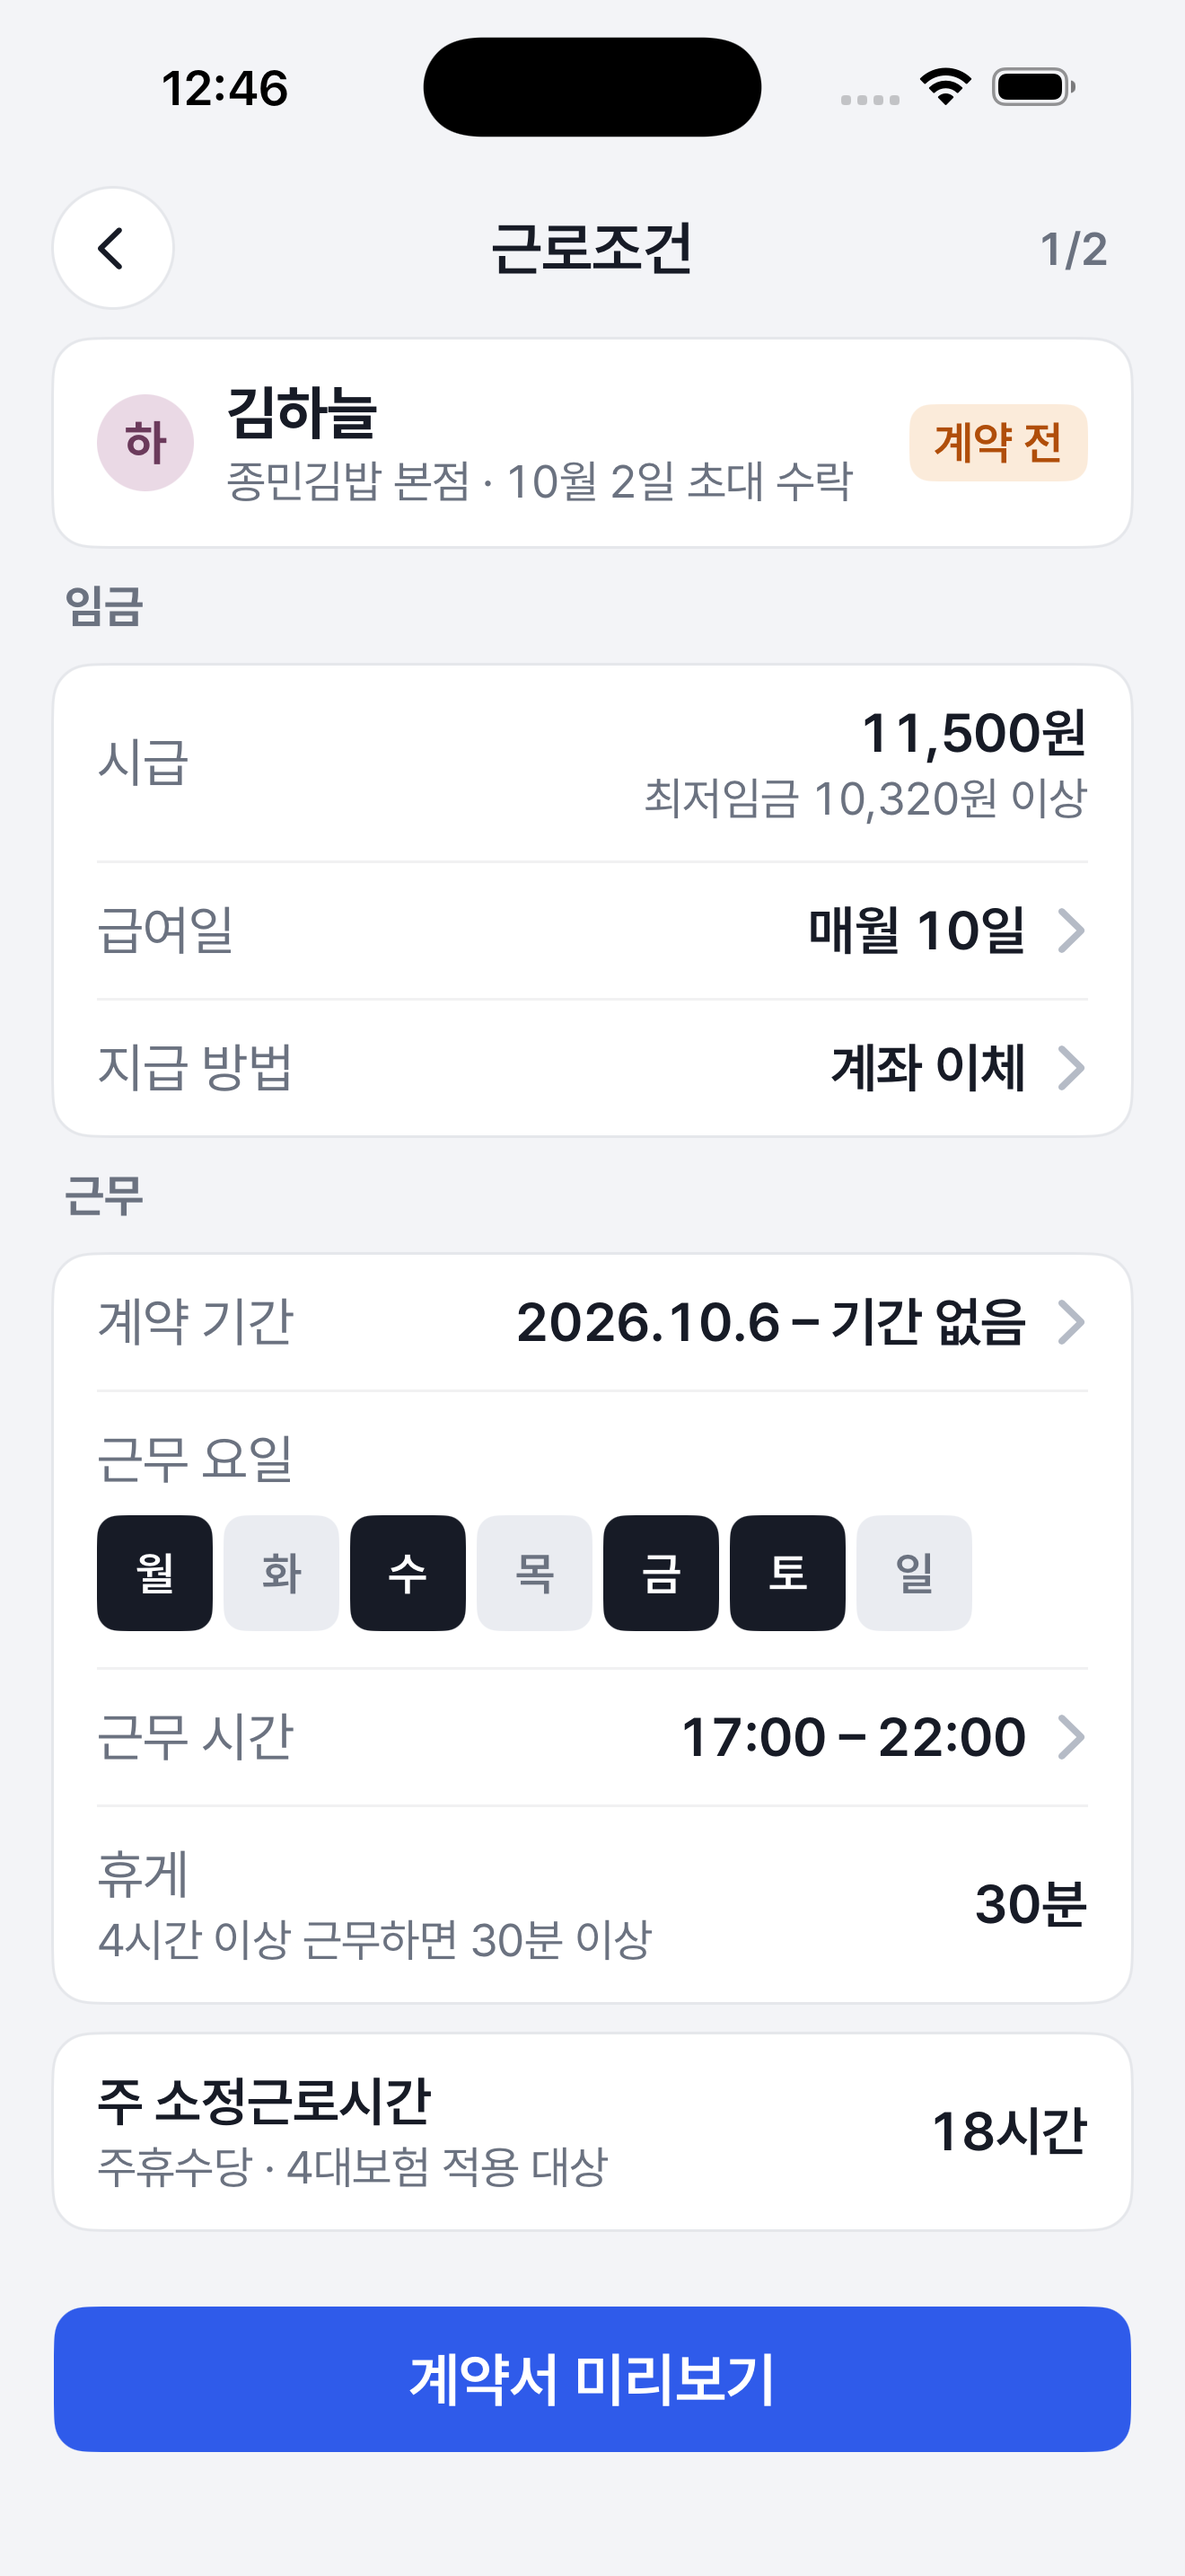
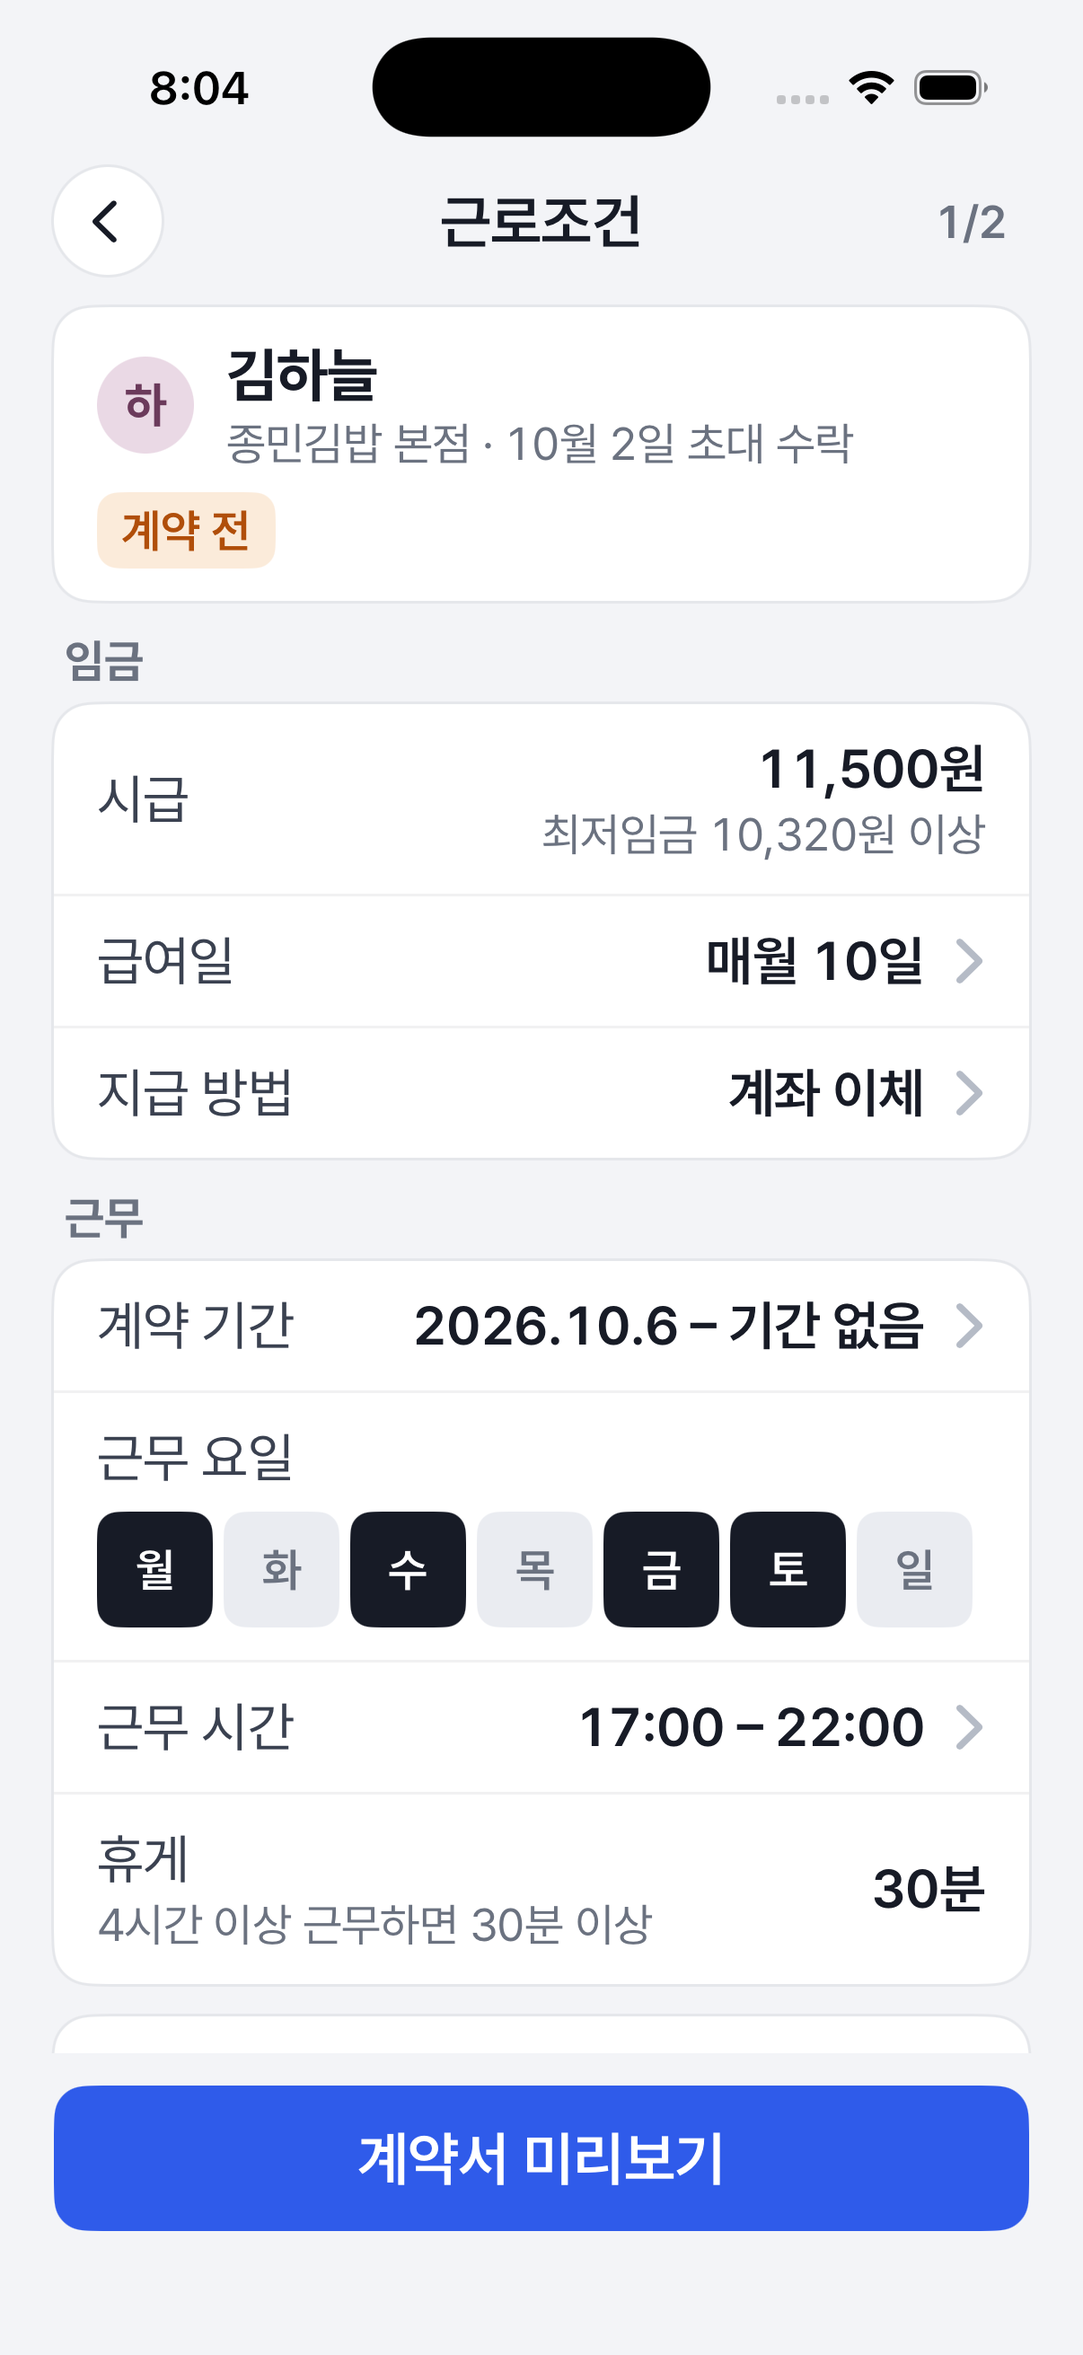
fix(employee): 근로조건(10a) 줄 높이 · 구분선 · 글자색을 원문 값대로 (#449)
- 요일 칩 누름 영역 44가 줄을 68pt로 키우던 것 → 음수 여백으로 줄 높이는 칩 30 기준(원문 52)
- 행 구분선을 카드 끝까지(원문 border-bottom), 키 글자색 gray800(#3A4150)
- 구역 제목–카드 6, 직원 카드 위아래 12, 필수 항목 체크 원 20 · 간격 10

UI-IOS-10a · REQ-008

diff --git a/Pum/Pum/Features/Employee/WorkTermsInput/WorkTermsInputView.swift b/Pum/Pum/Features/Employee/WorkTermsInput/WorkTermsInputView.swift
@@ -22,8 +22,8 @@ struct WorkTermsInputView: View {
     // 화면 전용 상수 (DEC-005)
     /// 요일 칩 한 변 — 원문 30(2e · 8d와 같은 값)
     @ScaledMetric(relativeTo: .caption) private var chipSize = PumTimePickerStyle.weekdayChip
-    /// 필수 항목 줄 체크 원 지름 — 원문 약 24
-    @ScaledMetric(relativeTo: .footnote) private var checkSize: CGFloat = 24
+    /// 필수 항목 줄 체크 원 지름 — 원문 20
+    @ScaledMetric(relativeTo: .footnote) private var checkSize: CGFloat = 20
 
     init(state: WorkTermsInputState = .sample,
          onBack: @escaping () -> Void = {},
@@ -61,10 +61,8 @@ struct WorkTermsInputView: View {
             ScrollView {
                 VStack(spacing: PumTokens.Space.s12) {
                     employeeCard
-                    PumSectionHeader(title: WorkTermsInputState.wageHeading)
-                    wageCard
-                    PumSectionHeader(title: WorkTermsInputState.workHeading)
-                    workCard
+                    section(WorkTermsInputState.wageHeading) { wageCard }
+                    section(WorkTermsInputState.workHeading) { workCard }
                     weeklyCard
                     requiredLine
                 }
@@ -119,7 +117,7 @@ struct WorkTermsInputView: View {
                     badge
                 }
             }
-            .padding(.vertical, PumTokens.Space.s14)
+            .padding(.vertical, PumTokens.Space.s12)
             .padding(.horizontal, PumTokens.Space.s16)
             .frame(maxWidth: .infinity, alignment: .leading)
             .accessibilityElement(children: .combine)
@@ -205,14 +203,14 @@ struct WorkTermsInputView: View {
 
     @ViewBuilder private var requiredLine: some View {
         if let text = state.requiredText {
-            let label = HStack(spacing: PumTokens.Space.s12) {
+            let label = HStack(spacing: PumTokens.Space.s10) {
                 Image(systemName: "checkmark")
-                    .font(.system(size: checkSize * 0.5, weight: .bold))
+                    .font(.system(size: checkSize * 0.6, weight: .bold))
                     .foregroundStyle(PumColor.textPrimary)
                     .frame(width: checkSize, height: checkSize)
                     .background(PumColor.surfaceFill, in: Circle())
                     .accessibilityHidden(true)
-                Text(text).pumText(.footnote).foregroundStyle(PumColor.textSecondary)
+                Text(text).pumText(.footnote).foregroundStyle(PumTokens.ColorToken.gray800)
             }
             let link = Button(action: onShowItems) {
                 Text(WorkTermsInputState.showItemsTitle).pumText(.footnote, weight: .semibold)
@@ -231,9 +229,16 @@ struct WorkTermsInputView: View {
 
     // MARK: 행 조각
 
+    /// 구역 제목과 카드 사이 6(원문)
+    private func section<C: View>(_ title: String, @ViewBuilder content: () -> C) -> some View {
+        VStack(spacing: PumTokens.Space.s6) {
+            PumSectionHeader(title: title)
+            content()
+        }
+    }
+
     private var divider: some View {
         Rectangle().fill(PumColor.borderHairline).frame(height: 1)
-            .padding(.horizontal, PumTokens.Size.rowPadX)
     }
 
     private func valueText(_ text: String) -> some View {
@@ -243,7 +248,7 @@ struct WorkTermsInputView: View {
 
     private func keyText(_ text: String, subtitle: String? = nil) -> some View {
         VStack(alignment: .leading, spacing: PumTokens.Space.s2) {
-            Text(text).pumText(.body, weight: .regular).foregroundStyle(PumColor.textSecondary)
+            Text(text).pumText(.body, weight: .regular).foregroundStyle(PumTokens.ColorToken.gray800)
             if let subtitle { Text(subtitle).pumText(.caption).foregroundStyle(PumColor.textSecondary) }
         }
     }
@@ -309,9 +314,10 @@ struct WorkTermsInputView: View {
                         .frame(width: chipSize, height: chipSize)
                         .background(on ? PumColor.surfaceInverse : PumColor.surfaceFill,
                                     in: RoundedRectangle(cornerRadius: PumTokens.Radius.sm, style: .continuous))
-                        // 누름 영역: 세로 44pt, 가로는 칩 + 간격(이웃과 겹치지 않게)
+                        // 누름 영역: 세로 44pt, 가로는 칩 + 간격(이웃과 겹치지 않게). 줄 높이에는 칩 크기만 쓴다
                         .frame(minWidth: chipSize + PumTokens.Space.s4, minHeight: PumTokens.Size.tapMin)
                         .contentShape(Rectangle())
+                        .padding(.vertical, -max(0, PumTokens.Size.tapMin - chipSize) / 2)
                 }
                 .buttonStyle(.plain)
                 .padding(.horizontal, -PumTokens.Space.s2)

diff --git a/docs/design/compare/screens/README.md b/docs/design/compare/screens/README.md
@@ -870,6 +870,8 @@
 | 주 소정근로시간 · 적용 대상 · 필수 항목 | 엔진 값 | 계산 조건이 지금 입력과 같을 때만 표시, 미리보기도 그때만 활성 | 구현 기준 |
 | 최저임금 미만 | 원문 없음 | 「최저임금 … 이상」 글자만 빨강(새 문구 없음) — 음성 · 문구는 원문 필요 | **결정 필요** |
 | 급여일 · 지급 방법 · 계약 기간 · 시급 입력 | 원문 없음 | 클로저만(날짜 선택 #192) | 결정 필요 |
+| 요일 줄 · 구분선 · 키 색 | 줄 52(칩 30 + 위아래 11) · 행 구분선 카드 끝까지 · 키 #3A4150 | 칩 누름 영역 44가 줄을 68로 키움 · 안쪽 구분선 · 키 회색 600 → **원문대로**(누름 영역은 음수 여백으로 유지) | 수정 후 일치 |
+| 구역 제목 간격 · 직원 카드 · 필수 항목 줄 | 제목–카드 6 · 카드 위아래 12 · 체크 원 20 · 간격 10 · 글자 #3A4150 | 12 · 14 · 24 · 12 · 회색 600 → **원문대로** | 수정 후 일치(행 여백 11/13은 토큰 12 — 근사) |
 ## UI-IOS-10i 직원 · 휴무 신청 (#231 · 배치 41)
 
 | 항목 | 디자인 | 구현 | 결과 |
